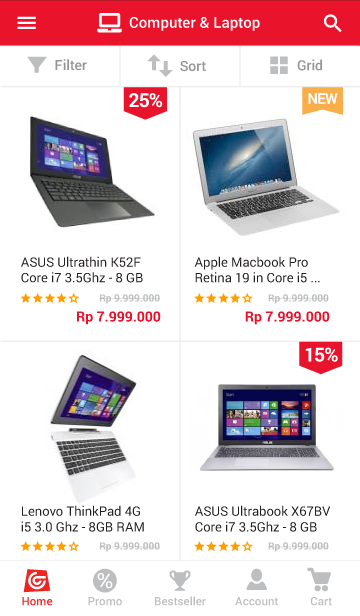
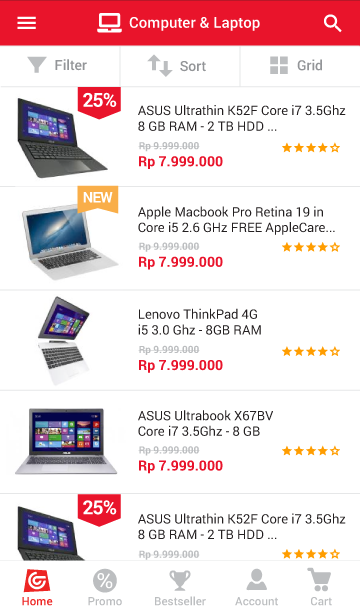
More pages for demo

diff --git a/index.html b/index.html
@@ -3,6 +3,7 @@
 	  <meta charset="utf-8">
 <meta name="viewport" content="width=device-width, initial-scale=1.0, maximum-scale=1.0, minimum-scale=1.0, user-scalable=no, minimal-ui">
 <meta name="apple-mobile-web-app-capable" content="yes">
+<link rel="apple-touch-icon" sizes="114x114" href="icon.png"/>
 		<title>App Previewer</title>
 	<link rel="stylesheet" href="css/animate.css">
 	<link rel="stylesheet" href="css/style.css">
@@ -11,30 +12,35 @@
     <script src="js/jquery.rwdImageMaps.min.js"></script>
 	</head>
 	<body>
-<map name="app">
+
+<map name="home">
  <area class="menu" shape="rect" coords="0,0,55,70" href="#" data-target="menu.png">
- <area class="category" shape="rect" coords="0,340,358,558" href="#" data-target="category.png">
+ <area class="category" shape="rect" coords="0,340,358,558" href="#" data-target="category.png" data-map="#category">
+ </map>
+ <map name="category">
+  <area class="menu" shape="rect" coords="0,0,55,70" href="#" data-target="menu.png" data-map="#home">
+ <area class="sort" shape="rect" coords="122,46,238,86" href="#" data-target="sort.png" data-map="#category">
+ <area class="category" shape="rect" coords="59,360,300,400" href="#" data-target="category.png" data-map="#category">
+ <area class="grid" shape="rect" coords="240,46,360,83" href="#" data-target="grid.png" data-map="#category">
+ <area class="single" shape="rect" coords="5,189,357,285" href="#" data-target="single.png" data-map="#category">
  </map>
 
 
-		<img class="animated" src="home.png" usemap="#app">
+<img class="animated" src="home.png" usemap="#home">
 
 <script>
+document.addEventListener("touchstart", function(){}, true);
+
 	$(document).ready(function(e) {
 
-    	$('img[usemap]').rwdImageMaps();
+    	$('img').rwdImageMaps();
 
-    	$('area.menu').click(function(){
-    		var newImg = $(this).attr('data-target');
-    		$('img').attr('src',newImg);
+    	$('area').click(function(){
+            var newImg = $(this).attr('data-target');
+    		var newMap = $(this).attr('data-map');
+    		$('img').attr({'src':newImg,'usemap':newMap});
     	});
-    	$('area.category').swipe({
-    		tap:function(){
-    				$('img').attr('src','category.png').toggleClass('zoomIn');
-    		}
-
-    	});
-    	 $('img').swipe({
+    	$('body').swipe({
     	 	swipeRight:function() {
     			$('img').attr('src','menu.png');
        		},

diff --git a/css/style.css b/css/style.css
@@ -2,8 +2,14 @@ html, body {
 	margin: 0;
 	padding: 0;
 	text-align: center;
+	-webkit-tap-highlight-color: rgba(0,0,0,0);
 }
 img {
 	margin: 0 auto;
 	max-width: 100%;
+	border: 0;
+	outline: none;
+}
+:focus {
+	outline: none;
 }
